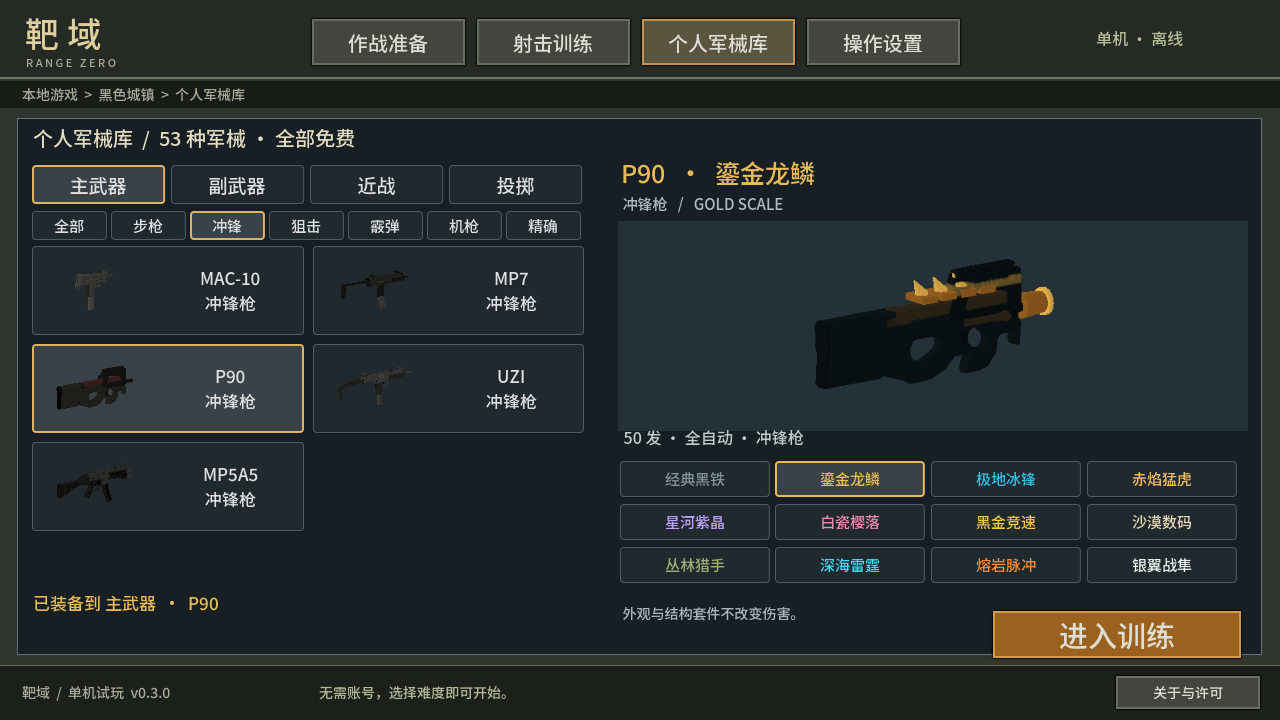
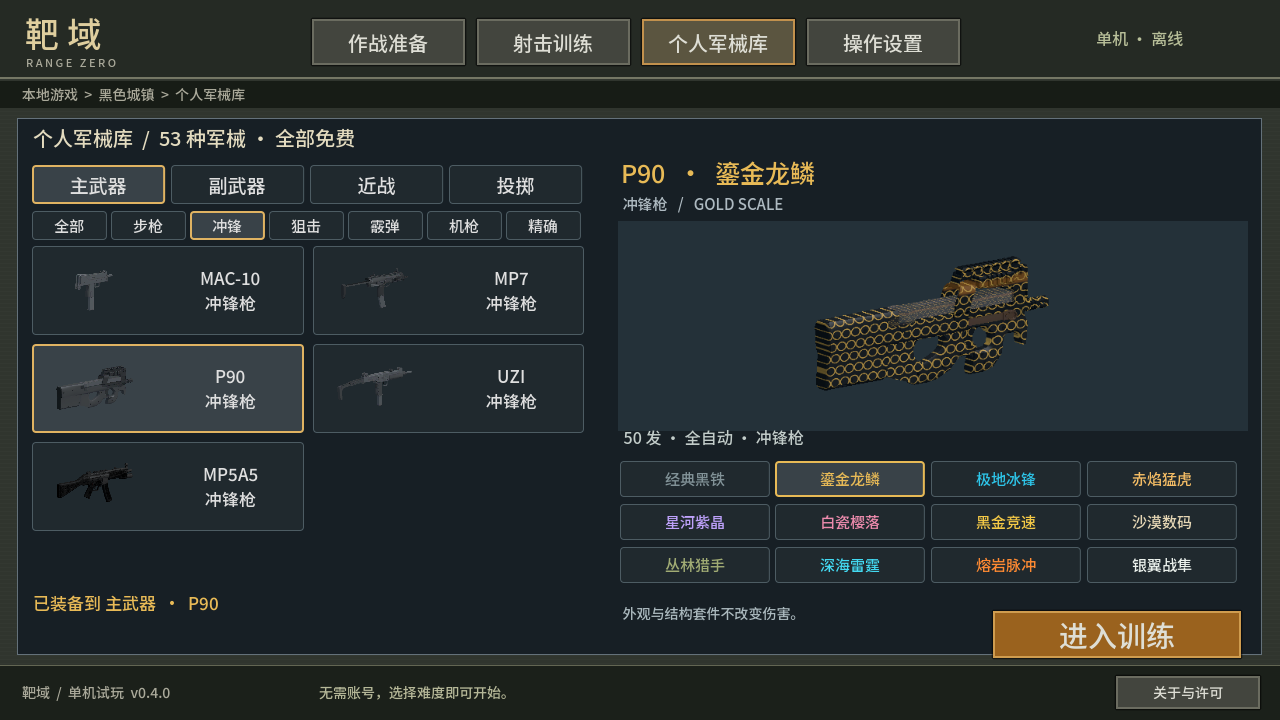
release: publish Range Zero 0.4.0 visual upgrade

diff --git a/CONTEXT.md b/CONTEXT.md
@@ -2,14 +2,14 @@
 
 更新：2026-10-22。
 
-本仓库用于靶域 Range Zero 的公开 APK 分发与后续版本检查。当前正式 latest 为 [0.3.0](https://github.com/junnhwan/range-zero/releases/tag/v0.3.0)，版本码 5；旧 0.1.2 Release 保留。
[1 lines of base64/hex data omitted]
 
[1 lines of base64/hex data omitted]
+本版升级全部 39 把枪的材质、握持和按枪系区分的动作，默认启用 A 大烘焙场景和经典 HUD。保留 53 种军械、四槽装备及每把 12 种外观；636 张预览由本版模型实际渲染。
 
-本版增加 53 种军械（39 枪、11 近战、3 投掷）、四槽装备和每枪外观，细化黑色城镇立面。32 项原玩法、173 项军械、40 项地图、23 项更新规则、5 项实际 HTTP、26 项 Android 基础与 18 项原生军械检查通过；同一最终 APK 已验证公开 0.1.2 原签名覆盖升级、皮肤保留。实测设备为专用 Android API35/ARM64 模拟器，未测用户手机。
+32 项玩法、173 项军械、40 项地图、23 项更新规则、5 项真实 HTTP、26 项 Android 基础与 18 项军械检查通过；39 枪四状态共 156 张实际截图通过缺陷审阅。采集包与正式 APK 的 217 项渲染资源、26 个生产脚本一致。53 件装备各 12 外观并恢复原装，经典与历史对照各 689 次切换通过。
 
-普通启动/恢复和游戏对局不联网；用户主动查新时最多两路并发、整体约 10 秒，下载通过系统浏览器，可选三条固定镜像或 GitHub 直连。游戏画面仍是简化原型，真实手机流畅度和视觉认可不由模拟器测试代替。
+同一原签名 APK 已实测从公开 0.3.0 覆盖安装，四槽装备与每枪皮肤保留，升级期间不清数据。实测为专用 Android API35/ARM64 无窗口模拟器，未测用户手机。低模、共享手指与程序化动画局限仍在，不代表 CF 原作品质或用户视觉认可。
 
-后续发布保持应用 ID 和原签名，版本码递增。先上传并校验草稿资产，再公开 Release，最后同步 main 的 `latest.json`；公开后匿名完整下载核对并实测游戏内查新。源码、工具、日志、口令及签名材料不得进入此仓库。
+普通启动/恢复和对局不联网；主动查新最多两路并发、整体约 10 秒，下载通过系统浏览器，可选三条固定镜像或 GitHub 直连。源码、工具、日志、口令及签名材料不得进入此仓库。
 
-公开后匿名验证：三条镜像、GitHub Release、raw 共五条清单一致；官方 APK 的 206 Range 通过，加速一完整下载 121,772,055 字节并核对同一 SHA-256。同一最终 APK 在已联网的专用 Android 模拟器约 0.527 秒主动查新读到 0.3.0，启动不查新；模拟器已停止，用户手机仍未验收。
+发布后匿名下载与最终 APK 查新正在回查，结果完成后补充。

diff --git a/README.md b/README.md
@@ -4,11 +4,13 @@ Android 离线第一人称射击试玩。自由移动、手动瞄准、开火换
 
 本仓库用于安装包分发和版本检查。
 
-- [下载 0.3.0 APK，约 116 MiB](https://github.com/junnhwan/range-zero/releases/download/v0.3.0/RangeZero-0.3.0-android.apk)
-- [加速下载](https://gh-proxy.org/https://github.com/junnhwan/range-zero/releases/download/v0.3.0/RangeZero-0.3.0-android.apk)
-- [版本说明与备用文件](https://github.com/junnhwan/range-zero/releases/tag/v0.3.0)
+- [下载 0.4.0 APK，约 207 MiB](https://github.com/junnhwan/range-zero/releases/download/v0.4.0/RangeZero-0.4.0-android.apk)
+- [加速下载](https://gh-proxy.org/https://github.com/junnhwan/range-zero/releases/download/v0.4.0/RangeZero-0.4.0-android.apk)
+- [版本说明与备用文件](https://github.com/junnhwan/range-zero/releases/tag/v0.4.0)
 
 ## 试玩内容
+
+0.4.0 改进全部 39 把枪的材质、握持与按枪系区分的动作，A 大烘焙场景和经典对局 HUD 默认启用。
 
 - 一张黑色城镇简化重建练场，保留 A/B 地标、高低差、车厢、拱廊和水塔；提供靶场与 5 分钟人机对局。
 - 53 种军械：39 把枪、11 种近战、破片/烟雾/闪光三类投掷。同一枪的外观不重复计数，全部免费。
@@ -22,16 +24,16 @@ Android 离线第一人称射击试玩。自由移动、手动瞄准、开火换
 
 ![Android 模拟器实际军械库](images/armory.png)
 
-这些为实际 Android 模拟器截图。场景仍为简化重建，部分新增枪为低多边形模型，动作由代码驱动；地图与武器画面仍需继续打磨，真实手机的性能和手感尚待试玩。
+这些为实际 Android 模拟器截图。39 把枪的持枪、开镜、开火、换弹及 636 张军械库预览均已检查；仍有低模轮廓、共享手指贴合与程序化动作的局限。地图其他区域、敌人和大厅尚未做同等程度重制，真实手机的性能和手感尚待试玩。
 
 ## 安装与更新
 
-Android 7.0 起，需支持 OpenGL ES 3.0。下载 APK 后直接覆盖安装，可保留本机设置和旧版皮肤；请勿先卸载。0.3.0 沿用原包名和原签名，已实测从公开 0.1.2 覆盖升级。
+Android 7.0 起，需支持 OpenGL ES 3.0。下载 APK 后直接覆盖安装，可保留本机设置和旧版皮肤；请勿先卸载。0.4.0 沿用原包名和原签名，已实测从公开 0.3.0 覆盖升级，四槽装备和各枪皮肤保留。
 
 “操作设置 → 检查更新”限时尝试加速线路和官方源；发现更新后选择加速下载一/二/三或 GitHub 直连，在浏览器下载并安装，失败可返回换线。对局与本地资源无需联网，启动不自动查新。
 
 ## 更新清单与许可
 
[2 lines of base64/hex data omitted]
 
 模型、贴图、字体和引擎的署名及许可保存在 APK 的“关于与许可”和 `THIRD_PARTY_NOTICES.txt` 中。游戏源码、工具和签名材料不在本公开仓库。
